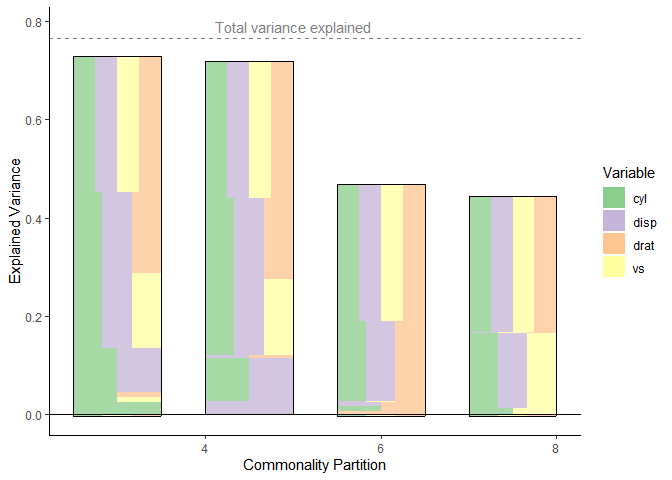
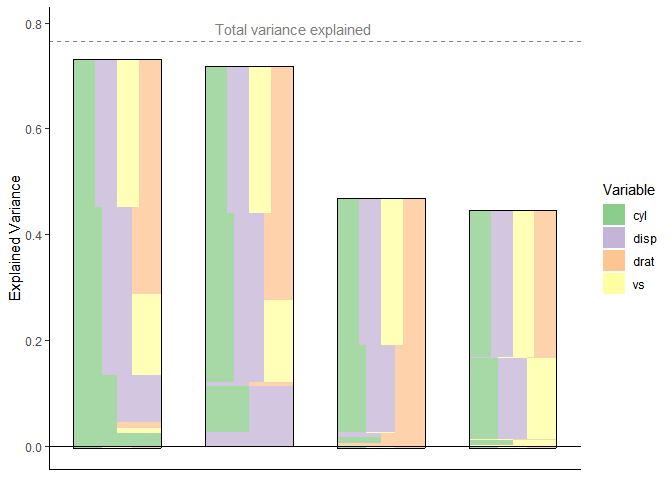
chore(ggcommonality): remove x axis coordinates from plot

diff --git a/docs/index.html b/docs/index.html
@@ -90,13 +90,22 @@
 <span>    <span class="op">)</span></span>
 <span>  <span class="op">)</span></span>
 <span></span>
-<span><span class="va">p</span> <span class="op">&lt;-</span> <span class="fu"><a href="reference/ggcommonality.html">ggcommonality</a></span><span class="op">(</span><span class="va">yhat_model</span><span class="op">)</span> <span class="op">+</span></span>
-<span>  <span class="fu"><a href="https://ggplot2.tidyverse.org/reference/ggtheme.html" class="external-link">theme_bw</a></span><span class="op">(</span><span class="op">)</span></span>
+<span><span class="va">p</span> <span class="op">&lt;-</span> <span class="fu"><a href="reference/ggcommonality.html">ggcommonality</a></span><span class="op">(</span><span class="va">yhat_model</span><span class="op">)</span></span>
+<span>  </span>
 <span></span>
 <span><span class="fu"><a href="https://rdrr.io/r/base/print.html" class="external-link">print</a></span><span class="op">(</span><span class="va">p</span><span class="op">)</span></span></code></pre></div>
 <p><img src="reference/figures/README-example-1.png" width="100%"> The plot is customizable and can be used with ggprotos.</p>
 <div class="sourceCode" id="cb3"><pre class="downlit sourceCode r">
-<code class="sourceCode R"><span><span class="va">p</span> <span class="op">+</span> <span class="fu"><a href="https://ggplot2.tidyverse.org/reference/coord_flip.html" class="external-link">coord_flip</a></span><span class="op">(</span><span class="op">)</span></span></code></pre></div>
+<code class="sourceCode R"><span><span class="va">p</span> <span class="op">+</span> </span>
+<span>  <span class="fu"><a href="https://ggplot2.tidyverse.org/reference/coord_flip.html" class="external-link">coord_flip</a></span><span class="op">(</span><span class="op">)</span> <span class="op">+</span></span>
+<span>    <span class="fu"><a href="https://ggplot2.tidyverse.org/reference/geom_abline.html" class="external-link">geom_hline</a></span><span class="op">(</span>yintercept <span class="op">=</span> <span class="fl">0.7652</span>,</span>
+<span>                      linetype <span class="op">=</span> <span class="st">"dashed"</span>,</span>
+<span>                      color <span class="op">=</span> <span class="st">"grey50"</span><span class="op">)</span> <span class="op">+</span> <span class="co"># adding total explained variance</span></span>
+<span>  <span class="fu"><a href="https://ggplot2.tidyverse.org/reference/annotate.html" class="external-link">annotate</a></span><span class="op">(</span>geom<span class="op">=</span><span class="st">"text"</span>, x<span class="op">=</span><span class="fl">7.8</span>, y<span class="op">=</span><span class="fl">.71</span>, label<span class="op">=</span><span class="st">"Total\nvariance\nexplained"</span>,</span>
+<span>              color<span class="op">=</span><span class="st">"grey50"</span><span class="op">)</span> <span class="op">+</span></span>
+<span>  <span class="fu"><a href="https://ggplot2.tidyverse.org/reference/ggtheme.html" class="external-link">theme_minimal</a></span><span class="op">(</span><span class="op">)</span> <span class="op">+</span></span>
+<span>  <span class="fu"><a href="https://ggplot2.tidyverse.org/reference/theme.html" class="external-link">theme</a></span><span class="op">(</span>axis.text.y <span class="op">=</span> <span class="fu"><a href="https://ggplot2.tidyverse.org/reference/element.html" class="external-link">element_blank</a></span><span class="op">(</span><span class="op">)</span>,</span>
+<span>        axis.ticks.y <span class="op">=</span> <span class="fu"><a href="https://ggplot2.tidyverse.org/reference/element.html" class="external-link">element_blank</a></span><span class="op">(</span><span class="op">)</span><span class="op">)</span></span></code></pre></div>
 <p><img src="reference/figures/README-unnamed-chunk-2-1.png" width="100%"></p>
 <div class="sourceCode" id="cb4"><pre class="downlit sourceCode r">
 <code class="sourceCode R"><span><span class="va">p</span> <span class="op">+</span> <span class="fu"><a href="https://ggplot2.tidyverse.org/reference/scale_manual.html" class="external-link">scale_fill_manual</a></span><span class="op">(</span>values <span class="op">=</span> <span class="fu"><a href="https://rdrr.io/r/base/c.html" class="external-link">c</a></span><span class="op">(</span><span class="st">"#7fc97f"</span>,</span>
@@ -104,7 +113,6 @@
 <span>                                          <span class="st">"#fdc086"</span>,</span>
 <span>                                          <span class="st">"#ffff99"</span><span class="op">)</span></span>
 <span>                              <span class="op">)</span> <span class="op">+</span></span>
-<span>  <span class="fu"><a href="https://ggplot2.tidyverse.org/reference/ggtheme.html" class="external-link">theme_classic</a></span><span class="op">(</span><span class="op">)</span> <span class="op">+</span></span>
 <span>  <span class="fu"><a href="https://ggplot2.tidyverse.org/reference/geom_abline.html" class="external-link">geom_hline</a></span><span class="op">(</span>yintercept <span class="op">=</span> <span class="fl">0.7652</span>,</span>
 <span>                      linetype <span class="op">=</span> <span class="st">"dashed"</span>,</span>
 <span>                      color <span class="op">=</span> <span class="st">"grey50"</span><span class="op">)</span> <span class="op">+</span> <span class="co"># adding total explained variance</span></span>

diff --git a/README.md b/README.md
@@ -53,8 +53,8 @@ yhat_model <- yhat::regr(
     )
   )
 
-p <- ggcommonality(yhat_model) +
-  theme_bw()
+p <- ggcommonality(yhat_model)
+  
 
 print(p)
 ```
@@ -63,7 +63,16 @@ print(p)
 customizable and can be used with ggprotos.
 
 ``` r
-p + coord_flip()
+p + 
+  coord_flip() +
+    geom_hline(yintercept = 0.7652,
+                      linetype = "dashed",
+                      color = "grey50") + # adding total explained variance
+  annotate(geom="text", x=7.8, y=.71, label="Total\nvariance\nexplained",
+              color="grey50") +
+  theme_minimal() +
+  theme(axis.text.y = element_blank(),
+        axis.ticks.y = element_blank())
 ```
 
 <img src="man/figures/README-unnamed-chunk-2-1.png" width="100%" />
@@ -74,7 +83,6 @@ p + scale_fill_manual(values = c("#7fc97f",
                                           "#fdc086",
                                           "#ffff99")
                               ) +
-  theme_classic() +
   geom_hline(yintercept = 0.7652,
                       linetype = "dashed",
                       color = "grey50") + # adding total explained variance
